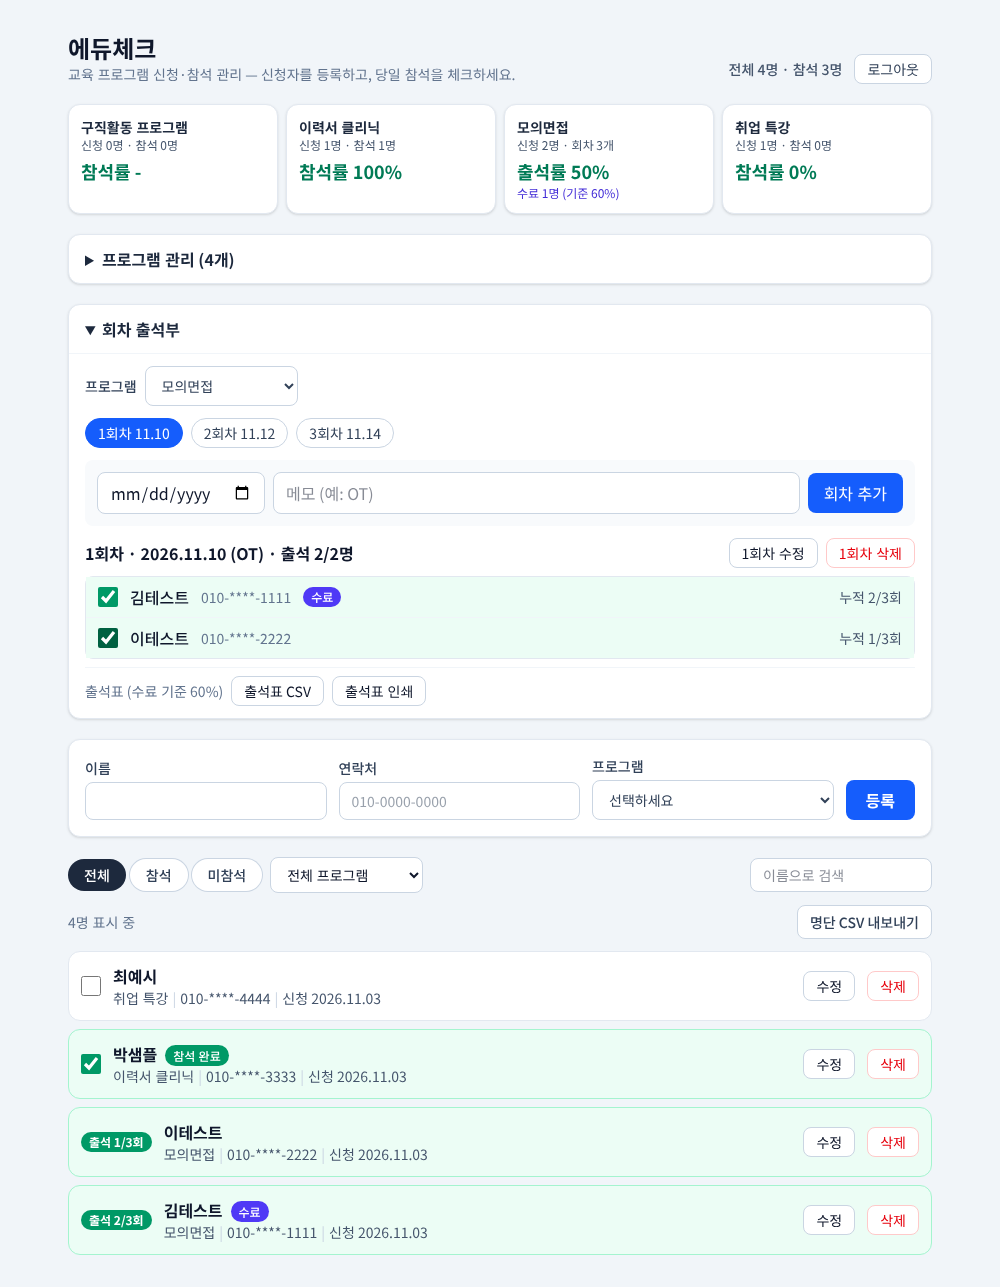
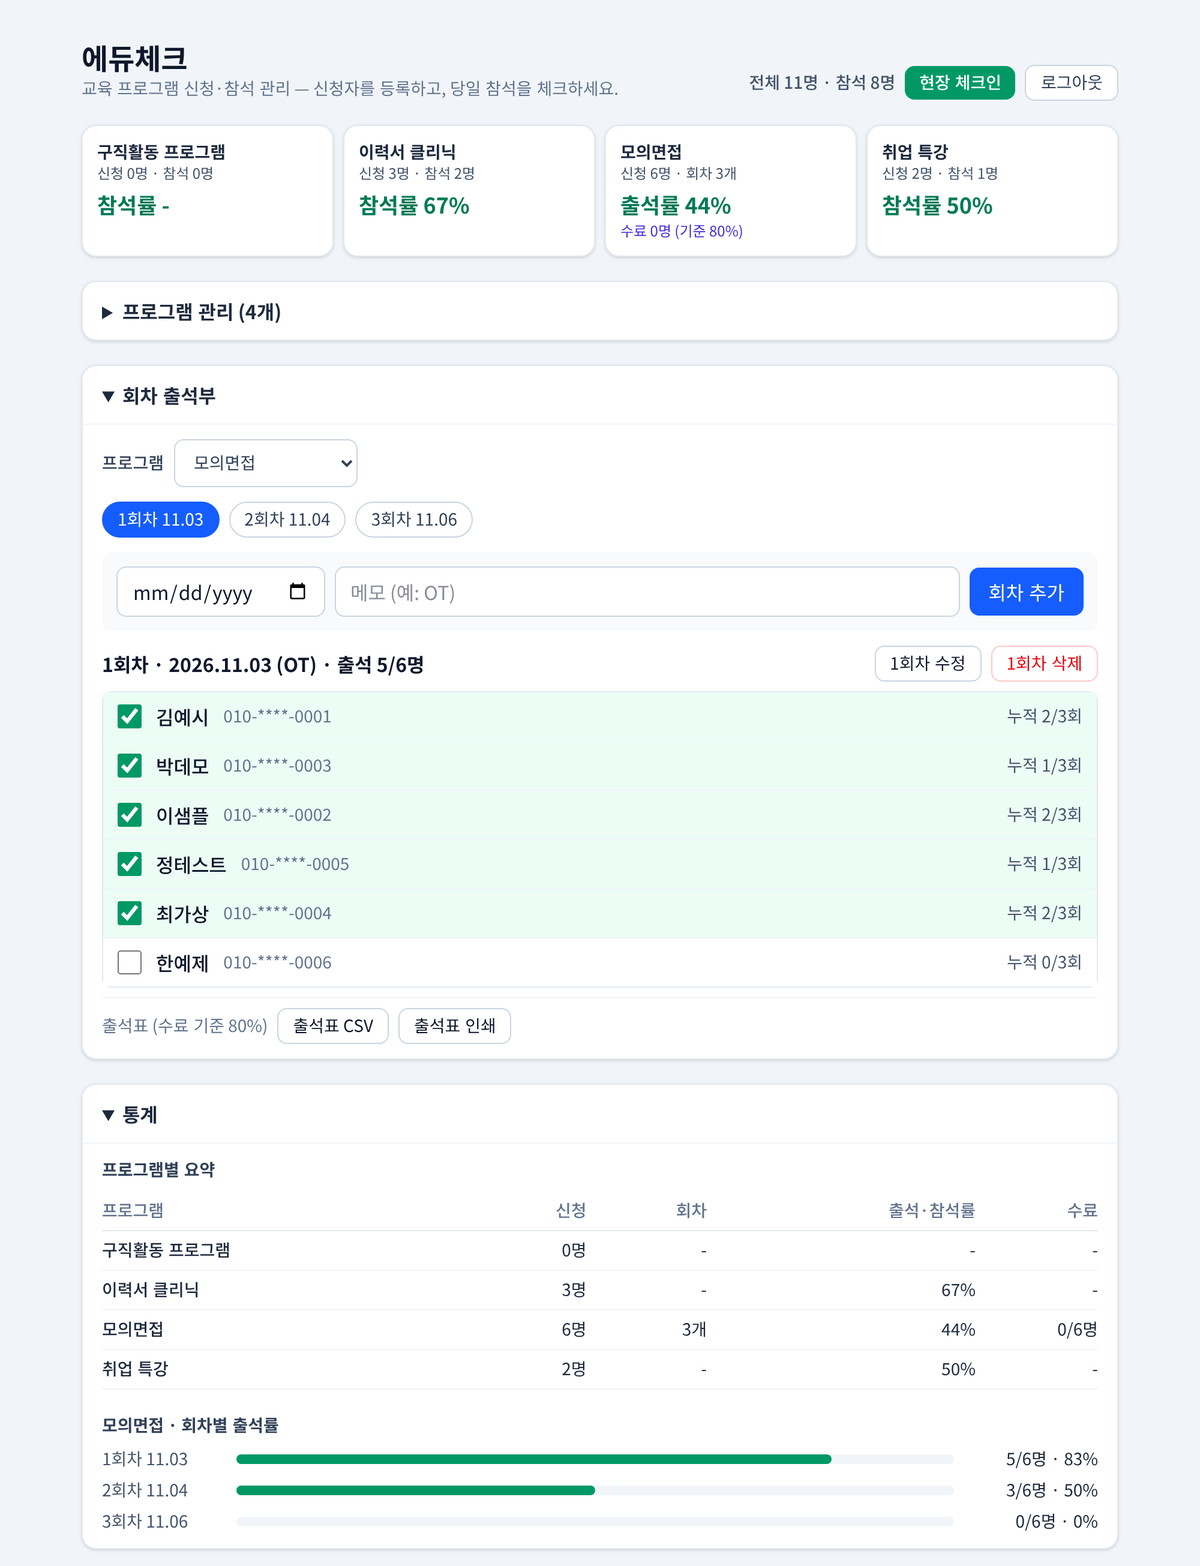
docs: v2.7 화면 캡처 갱신, CI 도구 버전 올리기

diff --git a/README.md b/README.md
@@ -7,7 +7,11 @@
 교육기관 운영 담당자가 프로그램 신청자를 등록하고, 행사 당일 참석을 체크하고, 프로그램별로 골라 보는 웹 앱입니다.
 현재 버전: **v2.7** (현장 체크인, 명단 일괄 등록, 통계, 자동 테스트까지)
 
-![실행 화면](docs/images/screenshot.png)
+![관리 화면: 프로그램별 요약, 회차 출석부, 통계](docs/images/screenshot.png)
+
+행사 당일에는 **현장 체크인** 화면에서 이름이나 연락처 뒷자리로 찾아 버튼 한 번으로 출석 처리합니다.
+
+![현장 체크인 화면](docs/images/checkin.png)
 
 > 화면의 이름과 연락처는 모두 가짜 데이터입니다.
 
@@ -62,7 +66,7 @@ personal_project/
 │  ├─ API_SPEC.md               # API 주소, 요청·응답, 에러 형식
 │  ├─ COMPONENT_SPEC.md         # 화면 부품, Props, 동작과 문구
 │  ├─ TEST_CASES.md             # 테스트 ID와 기대 결과 ("완성"의 기준)
-│  └─ images/screenshot.png     # README용 실행 화면
+│  └─ images/                   # README용 화면 캡처 (screenshot.png 관리 화면, checkin.png 현장 체크인)
 │
 ├─ app/                         # Next.js 페이지
 │  ├─ layout.tsx                # 모든 페이지를 감싸는 틀
